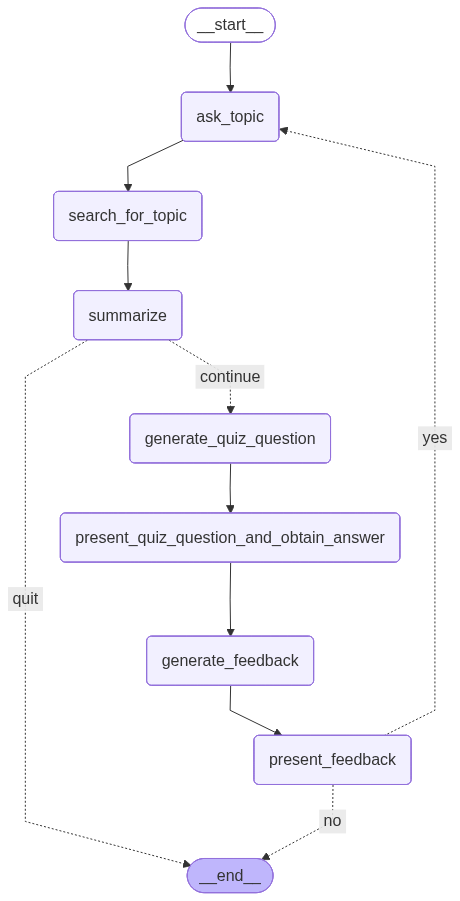
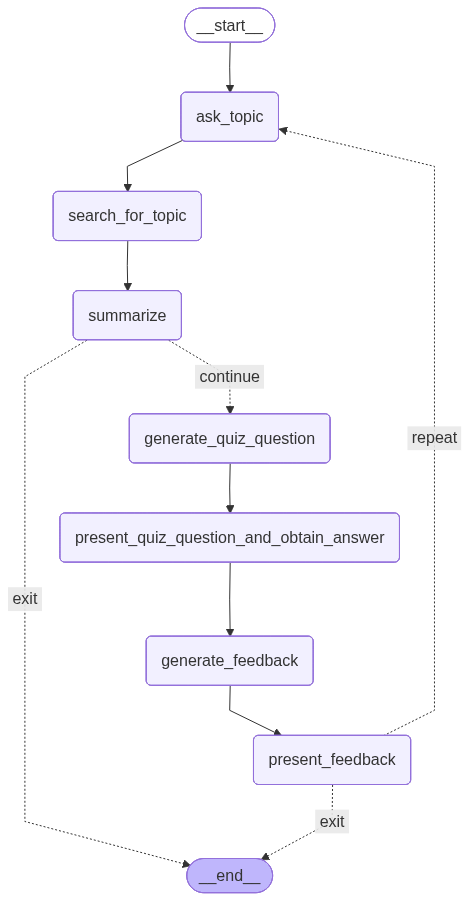
improved router outputs for better clarity in graph diagram

diff --git a/src/workflow.py b/src/workflow.py
@@ -146,7 +146,7 @@ def present_summarization(state):
     user_entry = input("\n: ")
     
     if user_entry.strip().lower() == 'q':
-        return "quit"
+        return "exit"
     
     return "continue"
 
@@ -260,8 +260,8 @@ def ask_for_repeat_or_exit(state):
     repeat = input("Would you like to learn about another health topic? [y/n]: ")
 
     if repeat.strip().lower() == "y":
-        return "yes"
-    return "no"
+        return "repeat"
+    return "exit"
 
 
 
@@ -284,15 +284,15 @@ def build_graph():
     workflow.add_edge("ask_topic", "search_for_topic")
     workflow.add_edge("search_for_topic", "summarize")
     workflow.add_conditional_edges("summarize", present_summarization, {
-        "quit": END, 
+        "exit": END, 
         "continue": "generate_quiz_question"
     })
     workflow.add_edge("generate_quiz_question", "present_quiz_question_and_obtain_answer")
     workflow.add_edge("present_quiz_question_and_obtain_answer", "generate_feedback")
     workflow.add_edge("generate_feedback", "present_feedback")
     workflow.add_conditional_edges("present_feedback", ask_for_repeat_or_exit, {
-        "yes": "ask_topic",
-        "no": END
+        "repeat": "ask_topic",
+        "exit": END
     })
 
     # Add memory
